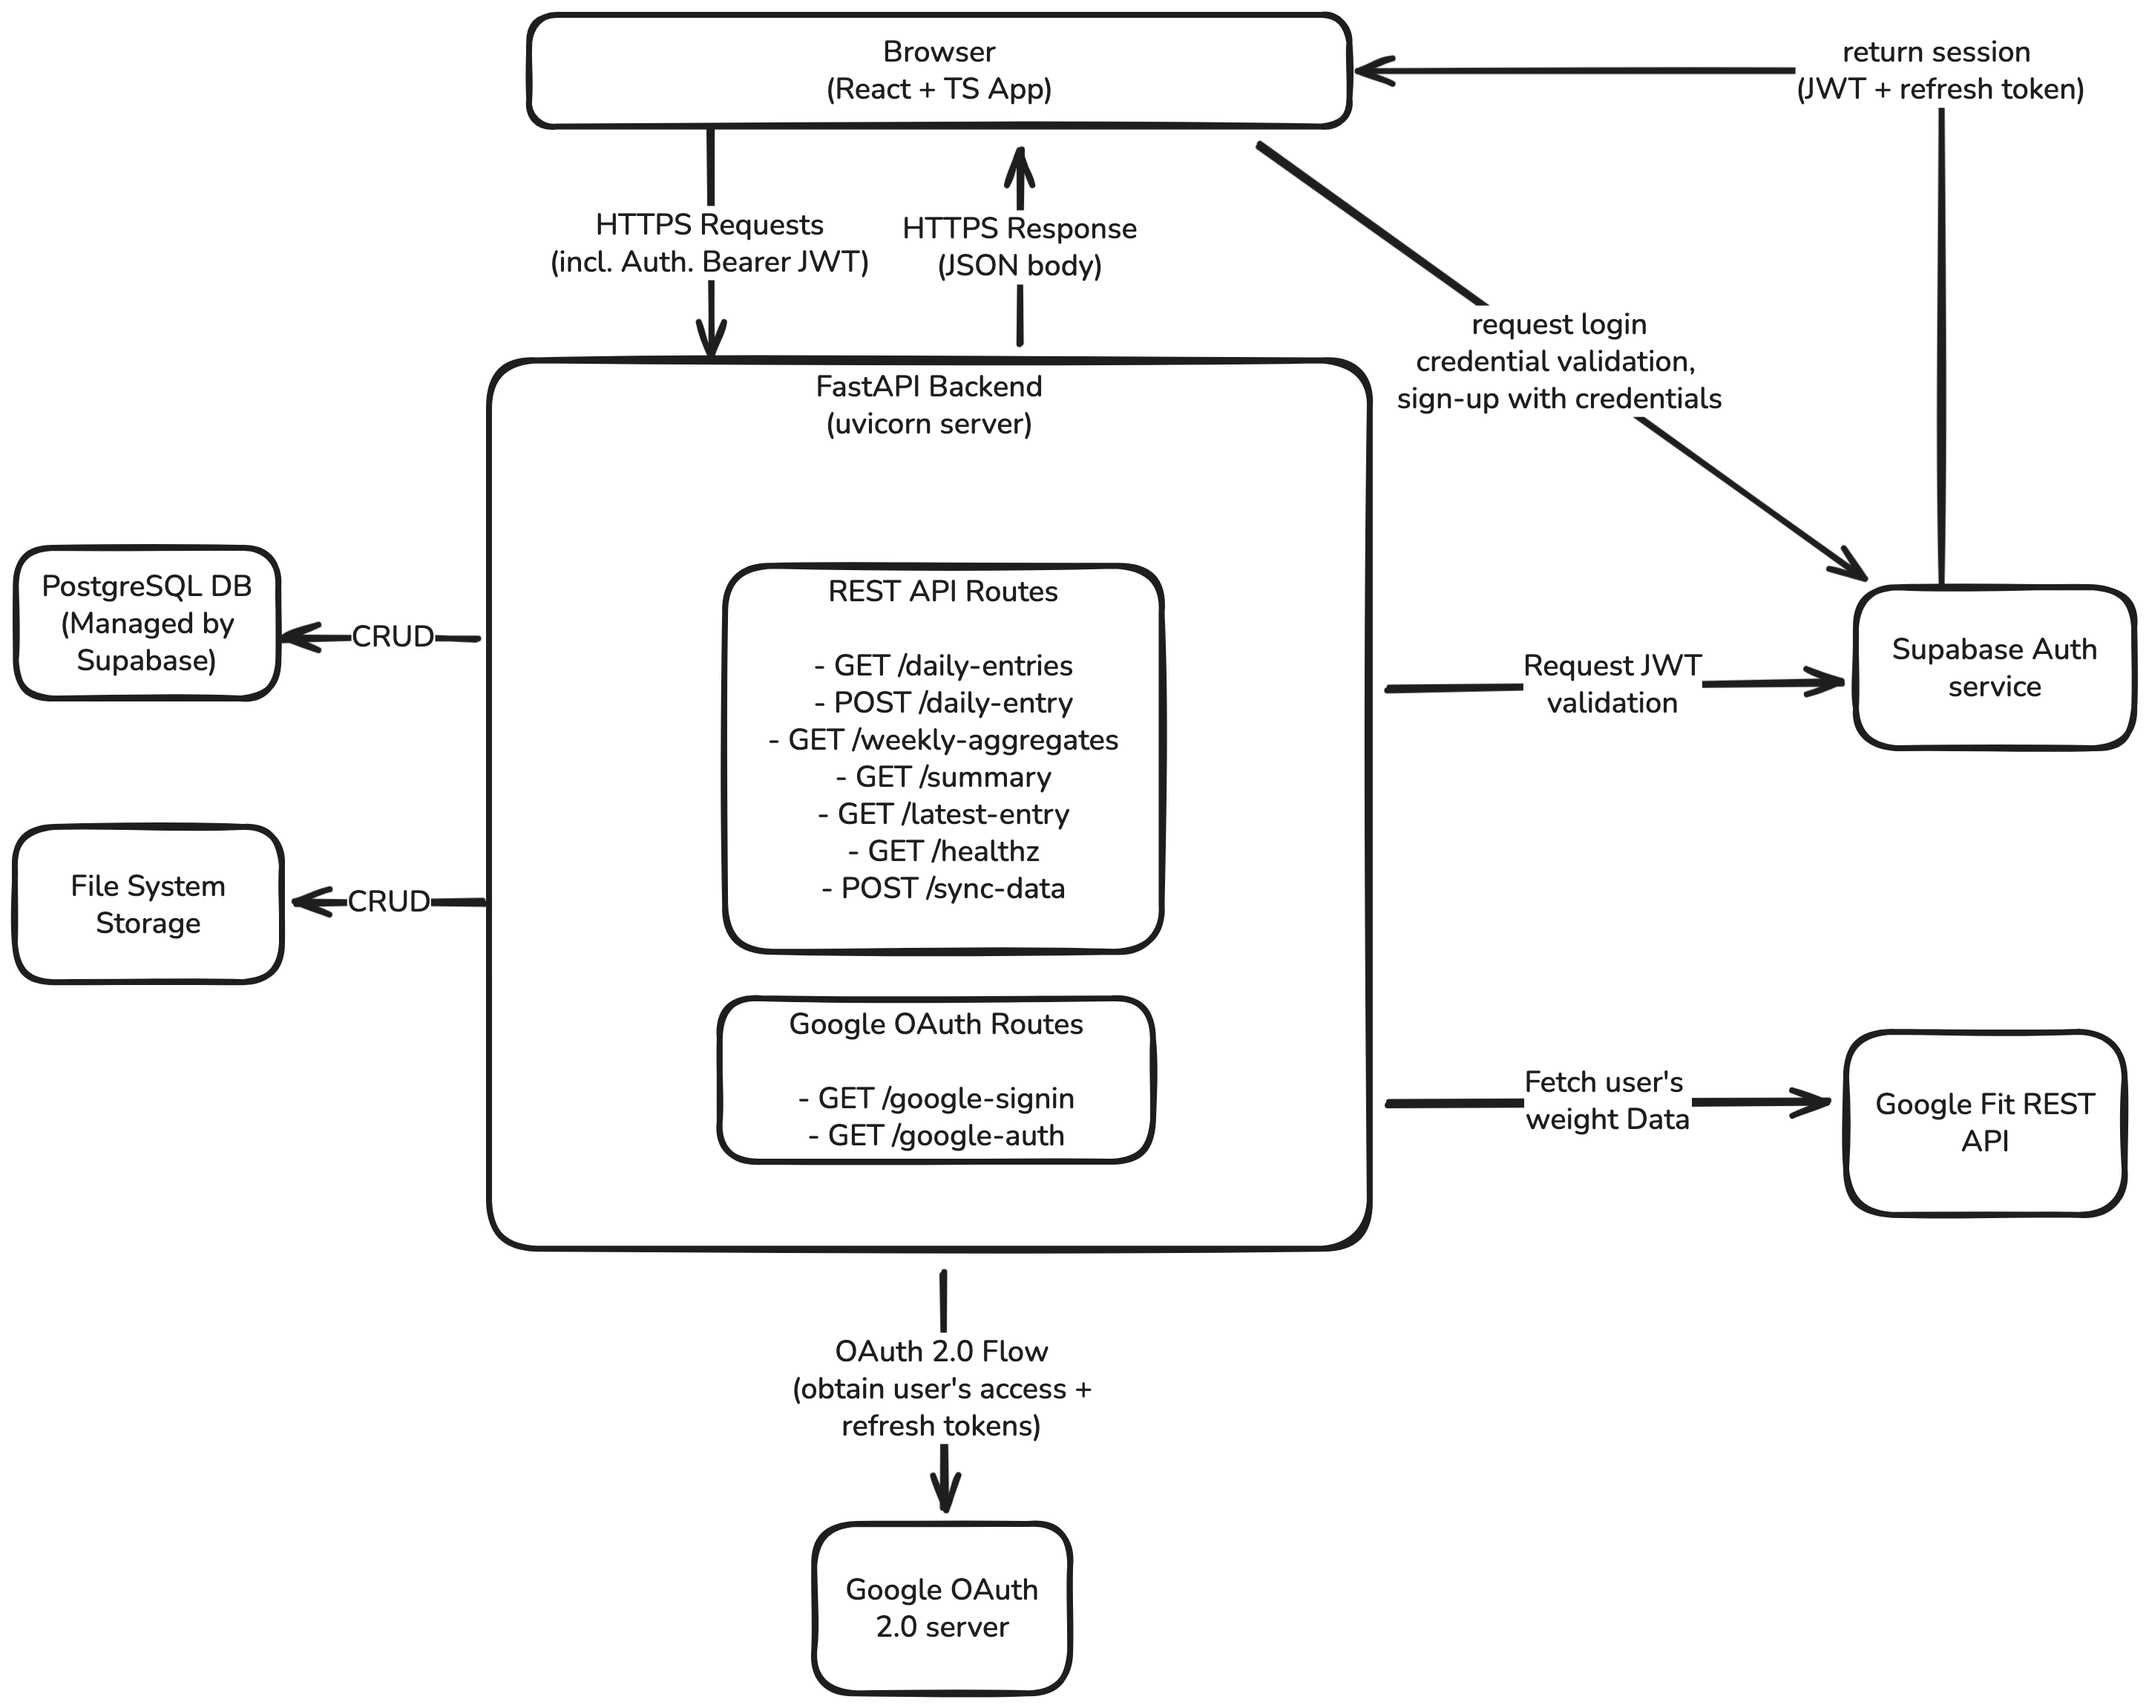
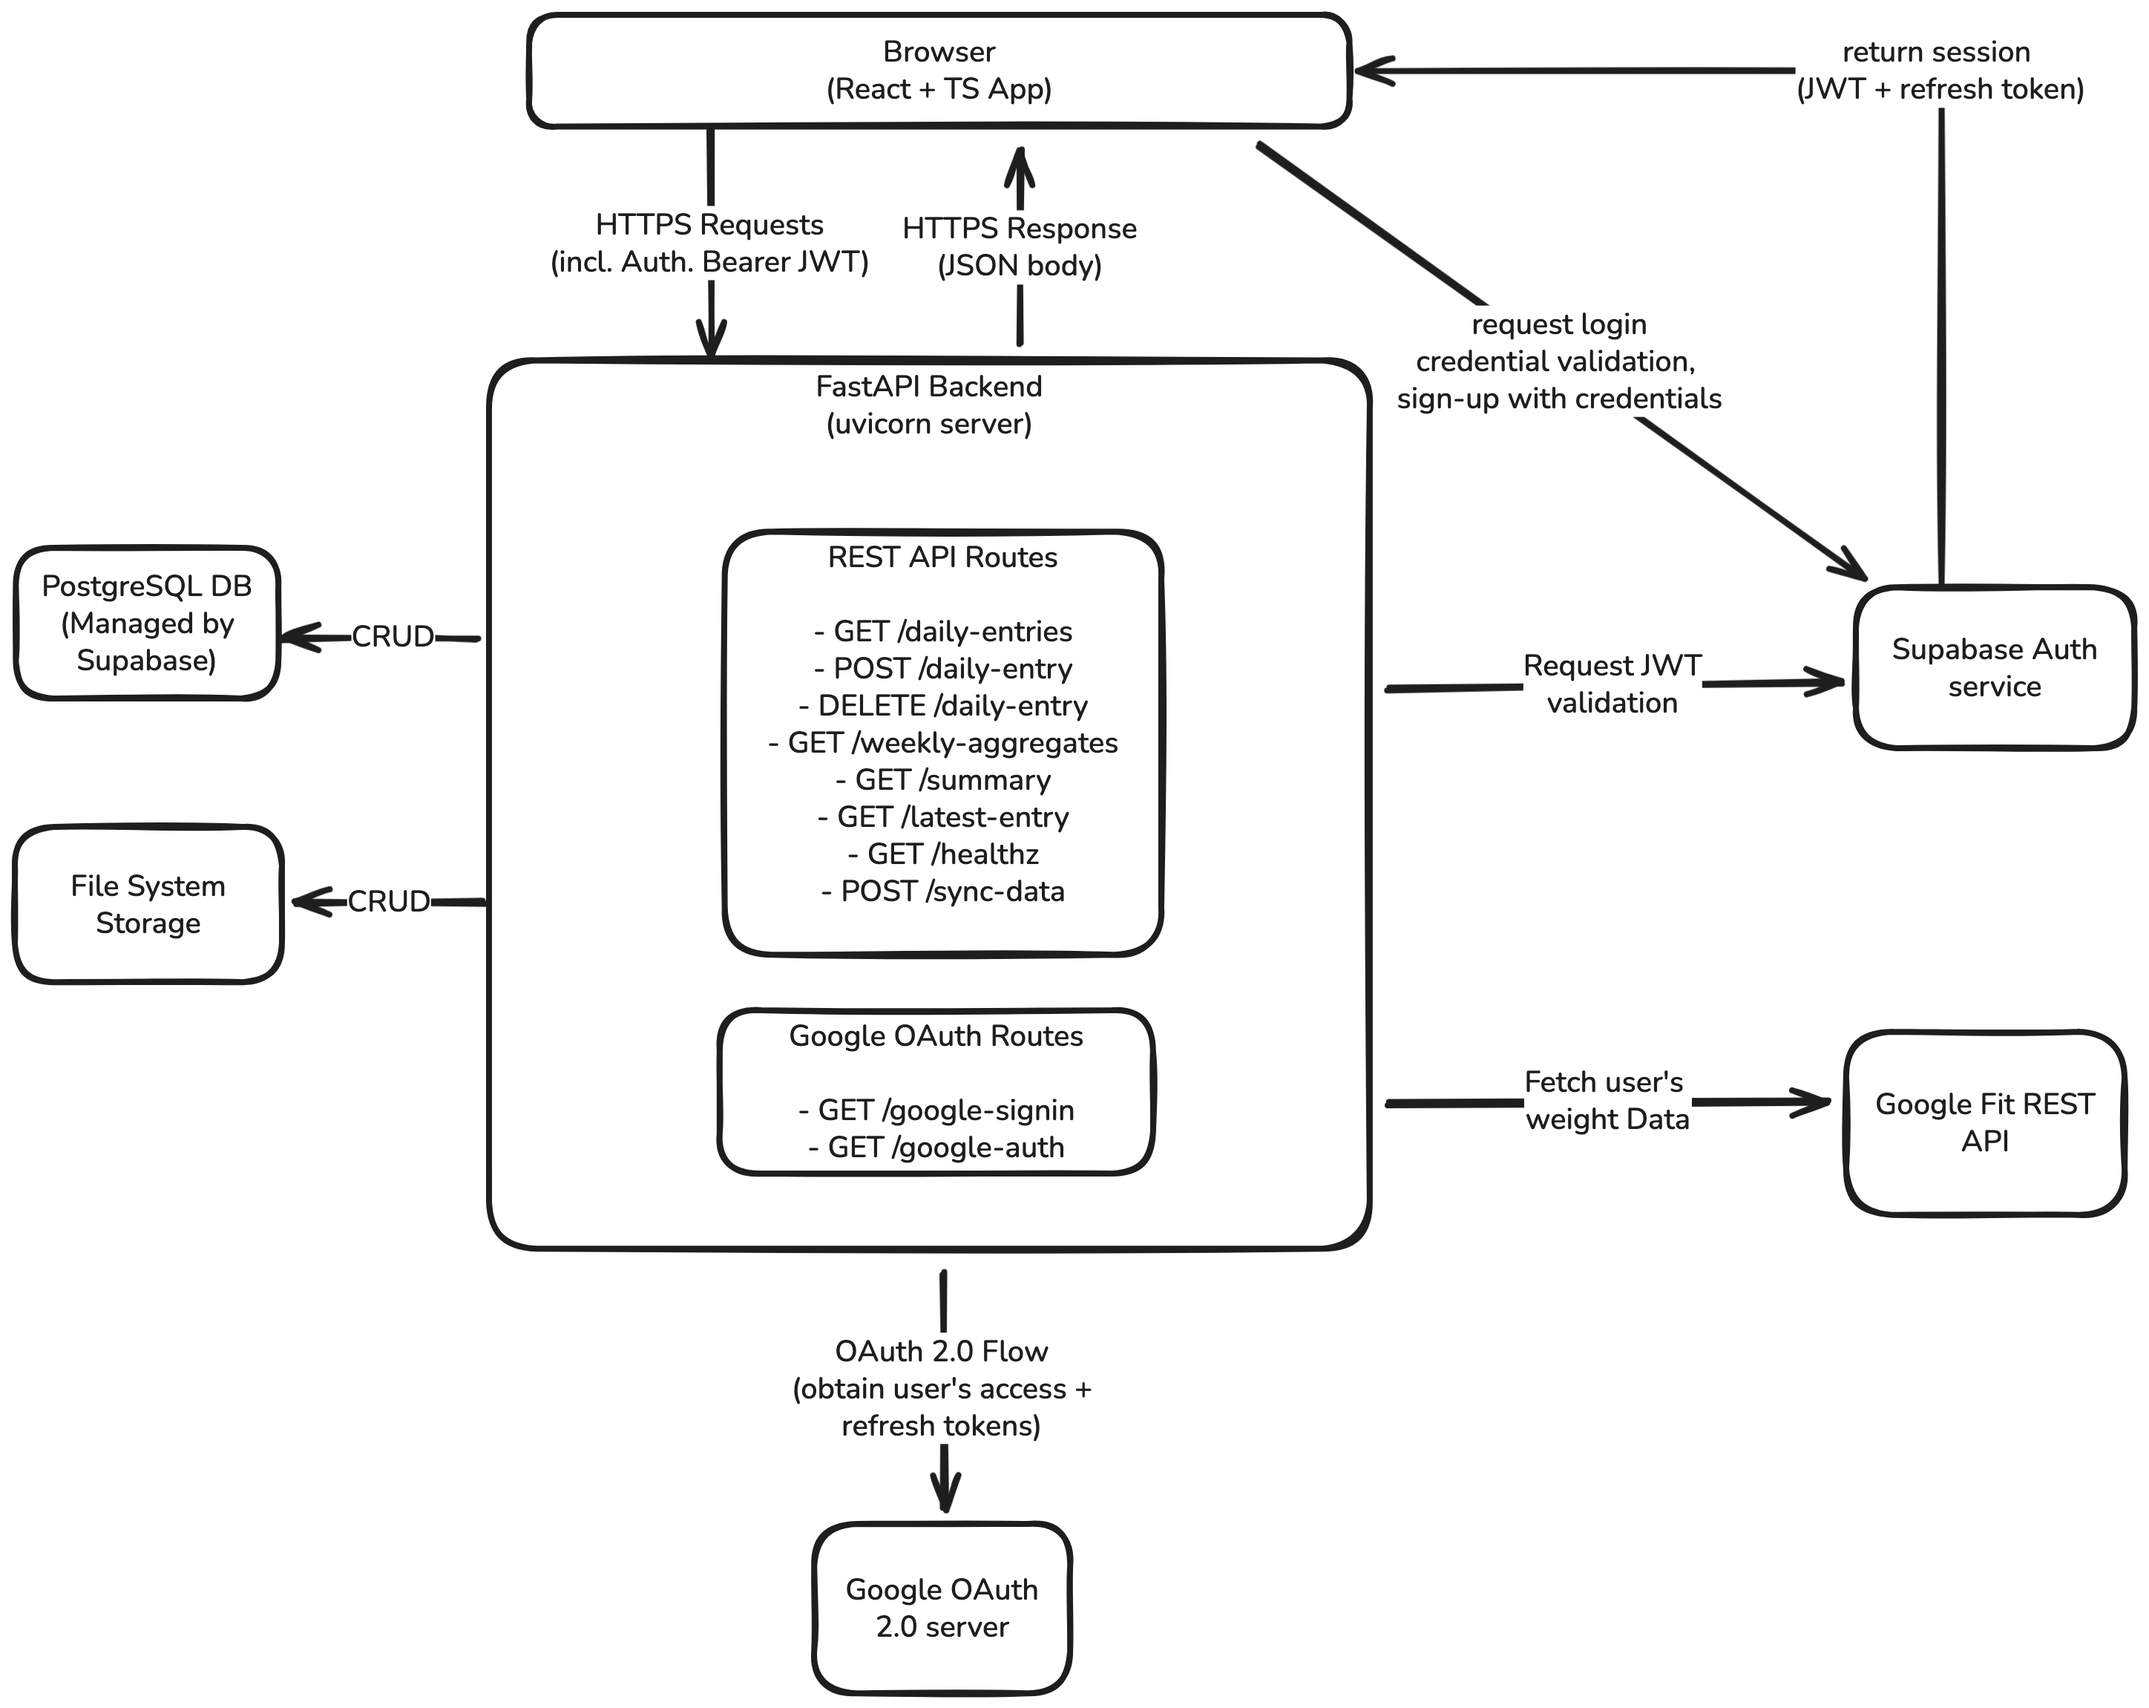
Updated docs to include the viewign and deletion of daily entries

Changed region(s): [[0.3419, 0.3086, 0.5594, 0.5246], [0.3108, 0.5554, 0.5594, 0.7097]]

diff --git a/README.md b/README.md
@@ -4,10 +4,9 @@
 # Weight Tracker - Full Stack Portfolio Project
 
 This is a full-stack weight tracking application that:
-- Fetches weight data from external sources (Google Fit API),
-- Cleans, stores, and aggregates it
-- Allows user to manually enter their daily weight
-- Presents weekly trends and weight goal-based insights in a modern web UI.
+- Fetches weight data from external sources (Google Fit API), cleans, stores, and aggregates it
+- Allows user to manually add or remove their daily weight entries
+- Presents weekly trends and weight goal-based insights in a modern web UI
 
 I built it as a portfolio project to demonstrate end-to-end skills: full-stack development, OAuth 2.0, 3rd-party API integration, modular backend architecture, automated testing, and CI/CD.
 
@@ -83,7 +82,7 @@ This is the first full-stack application I shipped to production. It helped me b
 ### User Features
 
 **Getting Data**
-- **Manual entry** - the user can enter their daily weight using the app
+- **Manual entry** - the user can enter their daily weight, view it using dail view and delete it using the app
 - **Syncing data with external sources** - the user can also request to get data from their selected source (currently only Google Fit supported)
 
 **Progress Dashboard**
@@ -264,7 +263,8 @@ Below are key React components that constitute the frontend (smaller components 
 | **Main.tsx** | Layout of the main section of the app. Also contains filter components and a selection of CTAs to trigger data sync from various sources |
 | **Summary.tsx**  | Cards that summarize the weight change over the selected period |
 | **WeeklyDataTable.tsx**  | Table with one row for each week in the selected period with key metrics for that week. Color coded results based on selected goal  |
-| **AddDataModal.tsx** | Modal component that allows manually adding new entries
+| **DailyDataTable.tsx**  | Table with one row for each daily entry in the selected period and an option to delete the entry |
+| **AddDataModal.tsx** | Modal component that allows manually adding new entries |
 | **Filters.tsx**  | Controls to select the data period (last N weeks or from dates X to Y) |
 
 The screenshot below shows the layout of the key components in the UI:
@@ -275,7 +275,7 @@ The screenshot below shows the layout of the key components in the UI:
 ## API Documentation
 ### Authentication
 
-All API endpoints require Authorization header with JWT, validated via Supabase Auth.
+All API endpoints require Authorization header with JWT, validated via Supabase Auth. The API routes use the JWT token in the Authorization header to determine which user's data should be read / modified.
 
 **Authorization Header:**
 ```http
@@ -289,6 +289,7 @@ Currently, the APIs can only be accessed from the domain hosting the React Front
 The app is powered by the following endpoints (only data associated with authenticated user is returned)
 - **`GET /daily-entries`** -> the user's daily weight entries stored in DB
 - **`POST /daily-entries`** -> create a new weight entry in DB
+- **`DELETE /daily-entries`** -> delete a weight entry in DB
 - **`GET /weekly-aggregates`** -> calculates weekly averages and other key metrics grouped by week
 - **`GET /summary`** -> total weight change metrics over a given period
 - **`GET /latest-entry`** -> the latest daily weight entry (for date closest to current date)
@@ -685,7 +686,7 @@ interface SummaryProps {
 
 ### Enhancements
 - The users' Google OAuth access and refresh tokens should be encrypted before storing them in PostgreSQL DB. This would mitigate the risk of the Supabase PostgreSQL DB being breached.
-- UI can be more polished - e.g. consistent feedback to the user when a component is being refreshed, etc.
+- The frontend React app should be refactored to make it more maintainable.
 ---
 
 ## Contact Me
